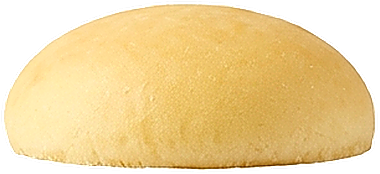
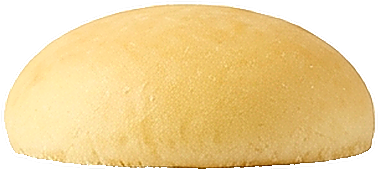
fix: remove bottom white table contact line from all ingredient cutouts

diff --git a/app.js b/app.js
@@ -43,36 +43,36 @@ const BREADS = [
   {
     id: 'brioche',
     name: { es: 'Brioche', pt: 'Brioche' },
-    topImg: 'assets/bun_brioche_top.png?v=2',
-    bottomImg: 'assets/bun_brioche_bottom.png?v=2',
-    iconImg: 'assets/bun_brioche_icon.png?v=2',
+    topImg: 'assets/bun_brioche_top.png?v=3',
+    bottomImg: 'assets/bun_brioche_bottom.png?v=3',
+    iconImg: 'assets/bun_brioche_icon.png?v=3',
     bottomThickness: 22,
     topHeight: 54,
   },
   {
     id: 'australiano',
     name: { es: 'Australiano', pt: 'Australiano' },
-    topImg: 'assets/bun_australiano_top.png?v=2',
-    bottomImg: 'assets/bun_australiano_bottom.png?v=2',
-    iconImg: 'assets/bun_australiano_icon.png?v=2',
+    topImg: 'assets/bun_australiano_top.png?v=3',
+    bottomImg: 'assets/bun_australiano_bottom.png?v=3',
+    iconImg: 'assets/bun_australiano_icon.png?v=3',
     bottomThickness: 22,
     topHeight: 54,
   },
   {
     id: 'batata',
     name: { es: 'Papa', pt: 'Batata' },
-    topImg: 'assets/bun_batata_top.png?v=2',
-    bottomImg: 'assets/bun_batata_bottom.png?v=2',
-    iconImg: 'assets/bun_batata_icon.png?v=2',
+    topImg: 'assets/bun_batata_top.png?v=3',
+    bottomImg: 'assets/bun_batata_bottom.png?v=3',
+    iconImg: 'assets/bun_batata_icon.png?v=3',
     bottomThickness: 22,
     topHeight: 52,
   },
   {
     id: 'parmesao',
     name: { es: 'Parmesano', pt: 'Parmesão' },
-    topImg: 'assets/bun_parmesao_top.png?v=2',
-    bottomImg: 'assets/bun_parmesao_bottom.png?v=2',
-    iconImg: 'assets/bun_parmesao_icon.png?v=2',
+    topImg: 'assets/bun_parmesao_top.png?v=3',
+    bottomImg: 'assets/bun_parmesao_bottom.png?v=3',
+    iconImg: 'assets/bun_parmesao_icon.png?v=3',
     bottomThickness: 22,
     topHeight: 55,
   },
@@ -90,7 +90,7 @@ const INGREDIENTS = [
     id: 'carne',
     name: { es: 'Carne', pt: 'Carne' },
     price: 8,
-    img: 'assets/carne.png?v=2',
+    img: 'assets/carne.png?v=3',
     category: 'protein',
     baseSlot: 50,
     thickness: 17,
@@ -101,7 +101,7 @@ const INGREDIENTS = [
     id: 'cheddar',
     name: { es: 'Cheddar', pt: 'Cheddar' },
     price: 4,
-    img: 'assets/cheddar.png?v=2',
+    img: 'assets/cheddar.png?v=3',
     category: 'cheese',
     baseSlot: 54,
     thickness: 8,
@@ -112,7 +112,7 @@ const INGREDIENTS = [
     id: 'prato',
     name: { es: 'Gouda', pt: 'Prato' },
     price: 4,
-    img: 'assets/prato.png?v=2',
+    img: 'assets/prato.png?v=3',
     category: 'cheese',
     baseSlot: 55,
     thickness: 8,
@@ -123,7 +123,7 @@ const INGREDIENTS = [
     id: 'frango',
     name: { es: 'Pollo crispy', pt: 'Frango' },
     price: 7,
-    img: 'assets/frango.png?v=2',
+    img: 'assets/frango.png?v=3',
     category: 'protein',
     baseSlot: 52,
     thickness: 18,
@@ -134,7 +134,7 @@ const INGREDIENTS = [
     id: 'bacon',
     name: { es: 'Bacon', pt: 'Bacon' },
     price: 5,
-    img: 'assets/bacon.png?v=2',
+    img: 'assets/bacon.png?v=3',
     category: 'topping_hot',
     baseSlot: 76,
     thickness: 10,
@@ -145,7 +145,7 @@ const INGREDIENTS = [
     id: 'ovo',
     name: { es: 'Huevo', pt: 'Ovo' },
     price: 4,
-    img: 'assets/ovo.png?v=2',
+    img: 'assets/ovo.png?v=3',
     category: 'topping_hot',
     baseSlot: 82,
     thickness: 11,
@@ -156,7 +156,7 @@ const INGREDIENTS = [
     id: 'caramelizada',
     name: { es: 'Caramelizada', pt: 'Caramelizada' },
     price: 4,
-    img: 'assets/caramelizada.png?v=2',
+    img: 'assets/caramelizada.png?v=3',
     category: 'topping_hot',
     baseSlot: 79,
     thickness: 10,
@@ -167,7 +167,7 @@ const INGREDIENTS = [
     id: 'onion_rings',
     name: { es: 'Onion rings', pt: 'Onion rings' },
     price: 5,
-    img: 'assets/onion_rings.png?v=2',
+    img: 'assets/onion_rings.png?v=3',
     category: 'topping_crispy',
     baseSlot: 86,
     thickness: 14,
@@ -178,7 +178,7 @@ const INGREDIENTS = [
     id: 'cebola_roxa',
     name: { es: 'Cebolla morada', pt: 'Cebola roxa' },
     price: 2,
-    img: 'assets/cebola_roxa.png?v=2',
+    img: 'assets/cebola_roxa.png?v=3',
     category: 'veggie',
     baseSlot: 34,
     thickness: 9,
@@ -189,7 +189,7 @@ const INGREDIENTS = [
     id: 'picles',
     name: { es: 'Pepinillos', pt: 'Picles' },
     price: 2,
-    img: 'assets/picles.png?v=2',
+    img: 'assets/picles.png?v=3',
     category: 'veggie',
     baseSlot: 30,
     thickness: 8,
@@ -200,7 +200,7 @@ const INGREDIENTS = [
     id: 'jalapeno',
     name: { es: 'Jalapeño', pt: 'Jalapeño' },
     price: 3,
-    img: 'assets/jalapeno.png?v=2',
+    img: 'assets/jalapeno.png?v=3',
     category: 'veggie',
     baseSlot: 38,
     thickness: 8,
@@ -211,7 +211,7 @@ const INGREDIENTS = [
     id: 'tomate',
     name: { es: 'Tomate', pt: 'Tomate' },
     price: 2,
-    img: 'assets/tomate.png?v=2',
+    img: 'assets/tomate.png?v=3',
     category: 'veggie',
     baseSlot: 26,
     thickness: 10,
@@ -222,7 +222,7 @@ const INGREDIENTS = [
     id: 'alface',
     name: { es: 'Lechuga', pt: 'Alface' },
     price: 2,
-    img: 'assets/alface.png?v=2',
+    img: 'assets/alface.png?v=3',
     category: 'veggie',
     baseSlot: 22,
     thickness: 12,
@@ -233,7 +233,7 @@ const INGREDIENTS = [
     id: 'molho_casa',
     name: { es: 'Salsa casa', pt: 'Molho da casa' },
     price: 2,
-    img: 'assets/molho_casa.png?v=2',
+    img: 'assets/molho_casa.png?v=3',
     category: 'sauce',
     baseSlot: 12,
     thickness: 6,
@@ -245,7 +245,7 @@ const INGREDIENTS = [
     id: 'barbecue',
     name: { es: 'Barbecue', pt: 'Barbecue' },
     price: 2,
-    img: 'assets/barbecue.png?v=2',
+    img: 'assets/barbecue.png?v=3',
     category: 'sauce',
     baseSlot: 16,
     thickness: 6,
@@ -257,7 +257,7 @@ const INGREDIENTS = [
     id: 'mostarda_mel',
     name: { es: 'Mostaza miel', pt: 'Mostarda mel' },
     price: 3,
-    img: 'assets/mostarda_mel.png?v=2',
+    img: 'assets/mostarda_mel.png?v=3',
     category: 'sauce',
     baseSlot: 14,
     thickness: 6,
@@ -269,7 +269,7 @@ const INGREDIENTS = [
     id: 'maionese',
     name: { es: 'Mayonesa', pt: 'Maionese' },
     price: 0,
-    img: 'assets/maionese.png?v=2',
+    img: 'assets/maionese.png?v=3',
     category: 'sauce',
     baseSlot: 10,
     thickness: 6,
@@ -281,7 +281,7 @@ const INGREDIENTS = [
     id: 'sriracha',
     name: { es: 'Sriracha', pt: 'Sriracha' },
     price: 2,
-    img: 'assets/sriracha.png?v=2',
+    img: 'assets/sriracha.png?v=3',
     category: 'sauce',
     baseSlot: 18,
     thickness: 6,
@@ -656,17 +656,17 @@ function spawnKitchenUtensil(ing, gapBottomY) {
   sprite.alt = '';
 
   if (ing.tool === 'spatula') {
-    sprite.src = 'assets/tool_spatula.png?v=2';
+    sprite.src = 'assets/tool_spatula.png?v=3';
     sprite.className = 'utensil-sprite utensil-spatula';
     sprite.style.setProperty('--utensil-bottom', `${gapBottomY - 6}px`);
     dom.utensilLayer.appendChild(sprite);
   } else if (ing.tool === 'tongs') {
-    sprite.src = 'assets/tool_tongs.png?v=2';
+    sprite.src = 'assets/tool_tongs.png?v=3';
     sprite.className = 'utensil-sprite utensil-tongs';
     sprite.style.setProperty('--utensil-bottom', `${gapBottomY + 8}px`);
     dom.utensilLayer.appendChild(sprite);
   } else if (ing.tool === 'bottle') {
-    sprite.src = 'assets/tool_bottle.png?v=2';
+    sprite.src = 'assets/tool_bottle.png?v=3';
     sprite.className = 'utensil-sprite utensil-bottle';
     sprite.style.setProperty('--utensil-bottom', `${gapBottomY + 26}px`);
     dom.utensilLayer.appendChild(sprite);
